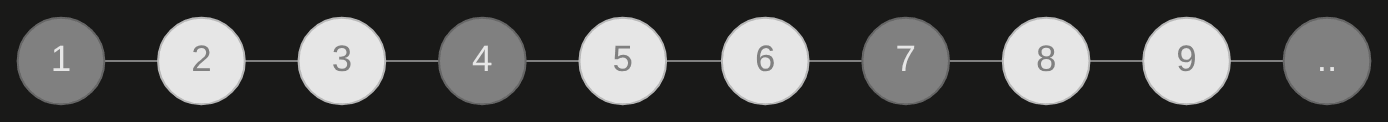
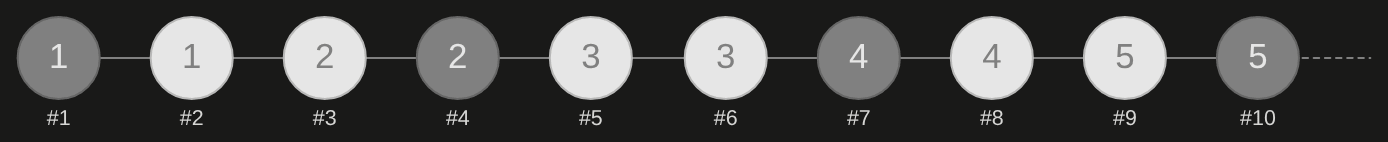
Rosary paper: Figures 1 to 3 show labels in the beads and an open end
- Figure 1 writes each bead's label in the bead and its position
  underneath, as #1, #2, ...
- Figures 2 and 3 show bare labels, without the up-down symbol, and
  draw the string.
- The '..' bead is gone: the tenth bead is a bead like the others and a
  dashed piece of string leaves it to the right.
- rosary.html takes three new parameters (labels=plain, below, end,
  string); without them it draws what it drew before, for the earlier
  versions of the paper.

diff --git a/figures/jane-s-rosary/rosary.html b/figures/jane-s-rosary/rosary.html
@@ -32,13 +32,24 @@
             get: (searchParams, prop) => searchParams.get(prop),
         })
         // P.n          Count of nodes to display
-        // P.labels     ['position', 'label', 'height', 'reluctant_inv']
+        // P.labels     ['position', 'label', 'plain', 'height', 'reluctant_inv']
         // P.arrows     ['none', 'up', 'down', 'both', 'to3']
+        // P.below      ['position']: what is written under each bead
+        // P.end        ['open']: the last bead is a bead like the others and
+        //              a dashed piece of string leaves it to the right;
+        //              without it the last bead shows '..'
+        // P.string     ['yes']: draw the string even when there are arrows
         // Without them: positions, no arrows (as the first version of the
-        // post calls this page).
+        // post calls this page).  The earlier versions of the paper link to
+        // this page without the last three parameters and must keep the
+        // figures they describe.
         N = parseInt(P.n)
         const LABELS = P.labels || 'position'
         const ARROWS = P.arrows || 'none'
+        const BELOW = P.below || 'none'
+        const OPEN = P.end == 'open'
+        const STRING = ARROWS == 'none' || P.string == 'yes'
+        const STEP = (BASE - BASE/N/2.2)/N
 
         // Create nodes
         var nodes = new vis.DataSet([])
@@ -54,8 +65,23 @@
                         size: BASE/4/N,
                         color: is_white(i) ? hsl_to_col(0, 0., 50.) : hsl_to_col(0, 0., 90.),
                     },
-                    label: i == N-1 ? '..' : f_label(i, LABELS),
+                    label: i == N-1 && !OPEN ? '..' : f_label(i, LABELS),
                     x: diam/2 + i*(BASE - diam)/N,
+                    y: 0,
+                }
+            ])
+        }
+
+        if (OPEN) {
+            // Where the dashed piece of string ends: a node that is not
+            // seen, so that the view makes room for it.
+            nodes.add([
+                {
+                    id: 'end',
+                    shape: 'dot',
+                    size: 0.01,
+                    color: 'rgba(0, 0, 0, 0)',
+                    x: BASE/N/2.2/2 + (N - 0.15)*STEP,
                     y: 0,
                 }
             ])
@@ -63,11 +89,11 @@
 
         // Create edges
         var edges = new vis.DataSet([])
-        if (ARROWS == 'none') {
+        if (STRING) {
             for (let i = 0; i < N - 1; ++i) {
                 edges.add([
                     {
-                        id: '' + i,
+                        id: 's' + i,
                         from: i,
                         to: i + 1,
                         color: hsl_to_col(0, 0., 50.),
@@ -76,6 +102,23 @@
                     },
                 ])
             }
+        }
+        if (OPEN) {
+            edges.add([
+                {
+                    id: 'send',
+                    from: N - 1,
+                    to: 'end',
+                    color: hsl_to_col(0, 0., 50.),
+                    smooth: false,
+                    dashes: [BASE/250, BASE/250],
+                    width: 1,
+                },
+            ])
+        }
+        // With the last bead a bead like the others, it has arrows too.
+        const LAST = OPEN ? N : N - 1
+        if (ARROWS == 'none') {
         } else if (ARROWS == 'to3') {
             for (let i of [1, 2, 4, 7, 3]) {
                 edges.add([
@@ -98,7 +141,7 @@
             }
         } else {
             if (ARROWS == 'up' || ARROWS == 'both') {
-                for (let i = 0; i < N - 1; ++i) {
+                for (let i = 0; i < LAST; ++i) {
                     edges.add([
                         {
                             id: 'u' + i,
@@ -113,7 +156,7 @@
                 }
             }
             if (ARROWS == 'down' || ARROWS == 'both') {
-                for (let i = 1; i < N - 1; ++i) {
+                for (let i = 1; i < LAST; ++i) {
                     edges.add([
                         {
                             id: 'd' + i,
@@ -148,6 +191,22 @@
       }
       var network = new vis.Network(container, data, options);
       //network.fit()
+
+      // The position of each bead, written under it.
+      if (BELOW == 'position') {
+          network.on('afterDrawing', (ctx) => {
+              const size = BASE/6.5/N
+              ctx.font = size + 'px arial'
+              ctx.fillStyle = THEME.text
+              ctx.textAlign = 'center'
+              ctx.textBaseline = 'top'
+              for (let i = 0; i < N; ++i) {
+                  const box = network.getBoundingBox('' + i)
+                  ctx.fillText('#' + f_label_position(i),
+                      (box.left + box.right)/2, box.bottom + size*0.45)
+              }
+          })
+      }
     </script>
   </body>
 </html>

diff --git a/figures/jane-s-rosary/janestreet.js b/figures/jane-s-rosary/janestreet.js
@@ -155,6 +155,8 @@ function f_label(bead, type) {
             return f_label_position(bead)
         case 'label':
             return f_label_label(bead)
+        case 'plain':
+            return '' + label(bead)
         case 'height':
             return f_label_height(bead)
         case 'reluctant_inv':

diff --git a/content/posts/2022-12-02-jane-s-infinite-rosary/index.md b/content/posts/2022-12-02-jane-s-infinite-rosary/index.md
@@ -40,17 +40,17 @@ black and white beads. Starting from the end, the beads are numbered
 $n = 1, 2, 3, \ldots$ and each carries a label $L(n) = 1, 1, 2, 2, 3, 3, \ldots$
 Every third bead, starting with bead $1$, is black; the other beads are white.
 
-[![Figure 1](images/figure-01.png)](https://blog.atlant.is/figures/jane-s-rosary/rosary.html?n=10&labels=position&arrows=none&interactive=yes&first=1)
+[![Figure 1](images/figure-01.png)](https://blog.atlant.is/figures/jane-s-rosary/rosary.html?n=10&labels=plain&arrows=none&below=position&end=open&interactive=yes&first=1)
 
-> Figure 1: the rosary. Each bead shows its position; every third bead is black. Up is to the right, down to the left ([live version](https://blog.atlant.is/figures/jane-s-rosary/rosary.html?n=10&labels=position&arrows=none&interactive=yes&first=1)).
+> Figure 1: the rosary. Each bead shows its label, with its position underneath; every third bead is black. Up is to the right, down to the left ([live version](https://blog.atlant.is/figures/jane-s-rosary/rosary.html?n=10&labels=plain&arrows=none&below=position&end=open&interactive=yes&first=1)).
 
 Jane tells the beads of her rosary in a special way. She always starts at bead
 $1$. Each time she is done with a bead $n$, she moves on, either *up* to bead
 $n + L(n)$ or *down* to bead $n - L(n)$.
 
-[![Figure 2](images/figure-02.png)](https://blog.atlant.is/figures/jane-s-rosary/rosary.html?n=10&labels=label&arrows=both&interactive=yes&first=1)
+[![Figure 2](images/figure-02.png)](https://blog.atlant.is/figures/jane-s-rosary/rosary.html?n=10&labels=plain&arrows=both&string=yes&end=open&interactive=yes&first=1)
 
-> Figure 2: telling the beads. Each bead shows its label, and its two arrows, one up (to the right) and one down (to the left), reach as many places away as the label says ([live version](https://blog.atlant.is/figures/jane-s-rosary/rosary.html?n=10&labels=label&arrows=both&interactive=yes&first=1)).
+> Figure 2: telling the beads. Each bead shows its label, and its two arrows, one up (to the right) and one down (to the left), reach as many places away as the label says ([live version](https://blog.atlant.is/figures/jane-s-rosary/rosary.html?n=10&labels=plain&arrows=both&string=yes&end=open&interactive=yes&first=1)).
 
 **Can Jane tell every bead of her rosary?** Yes, and easily: every bead can be
 reached from bead $1$. The fun starts with two finer questions.
@@ -249,9 +249,9 @@ this binary structure (down) and the multiplication by $3/2$ (up).
 
 By definition $h(1) = 0$.
 
-[![Figure 3](images/figure-03.png)](https://blog.atlant.is/figures/jane-s-rosary/rosary.html?n=10&labels=label&arrows=to3&interactive=yes&first=1)
+[![Figure 3](images/figure-03.png)](https://blog.atlant.is/figures/jane-s-rosary/rosary.html?n=10&labels=plain&arrows=to3&string=yes&end=open&interactive=yes&first=1)
 
-> Figure 3: the height of bead $4$ is $5$. Beads show their labels and the arrows are numbered in the order of the moves: four up, then one down onto bead $4$, the fourth from the left ([live version](https://blog.atlant.is/figures/jane-s-rosary/rosary.html?n=10&labels=label&arrows=to3&interactive=yes&first=1)).
+> Figure 3: the height of bead $4$ is $5$. Beads show their labels and the arrows are numbered in the order of the moves: four up, then one down onto bead $4$, the fourth from the left ([live version](https://blog.atlant.is/figures/jane-s-rosary/rosary.html?n=10&labels=plain&arrows=to3&string=yes&end=open&interactive=yes&first=1)).
 
 **Proposition 1.** Every bead has a finite height. Moreover, for all $n \geq 2$,
 

diff --git a/figures/jane-s-rosary/README.md b/figures/jane-s-rosary/README.md
@@ -17,7 +17,7 @@ Used by the paper, with `janestreet.js`:
 
 | Page | Shows | Parameters |
 |---|---|---|
-| `rosary.html` | the rosary as a row of beads | `n`, `labels`, `arrows`, `interactive` |
+| `rosary.html` | the rosary as a row of beads | `n`, `labels`, `arrows`, `below`, `end`, `string`, `interactive` |
 | `deconstructed.html` | the rosary as a grid, one up-chain per row | `n`, `width`, `height`, `ordering`, `label`, `color`, `arrows`, `interactive` |
 | `height-plot.html` | plot of the heights of beads | `n` |
 | `irrational-log2-3.html` | multiples of log2(3) on the circle | `n`, `interactive` |
